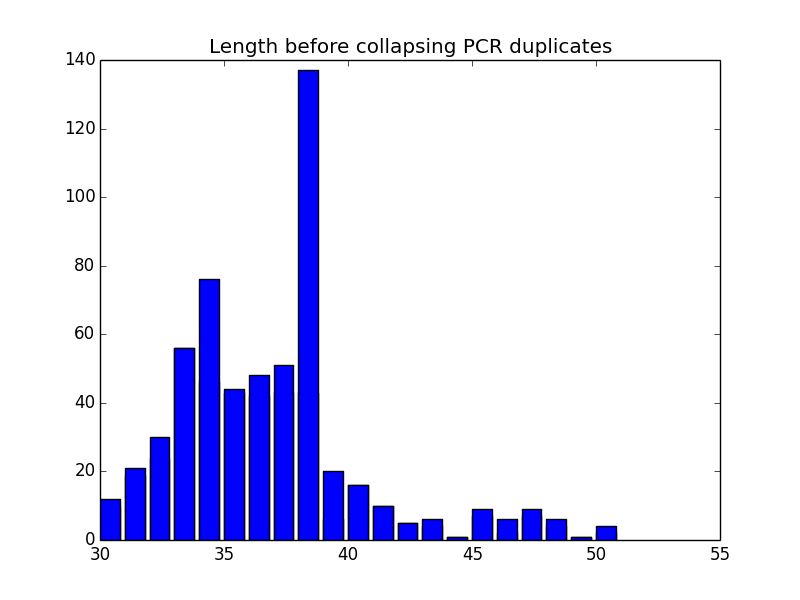
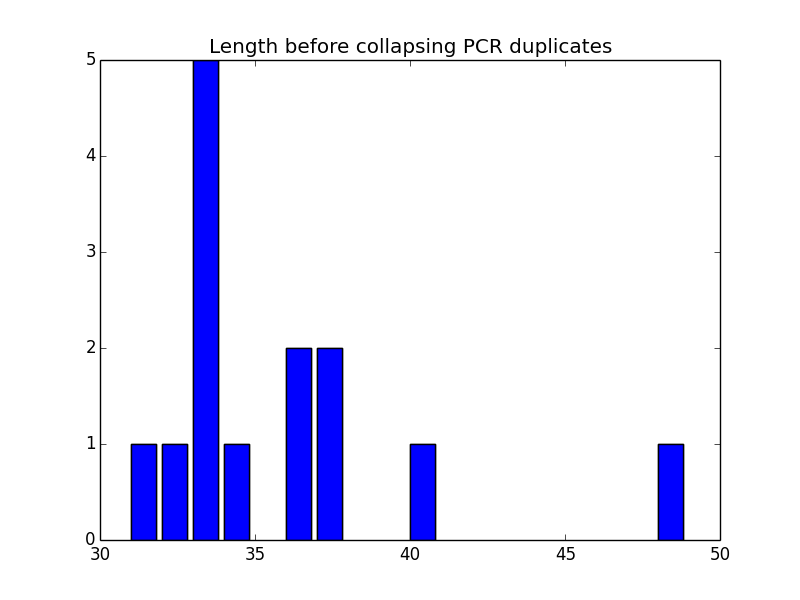
fix the count reporting the number of UNIQUE reads based on NH:1 tag from bam file

diff --git a/collapsePCRduplicates.py b/collapsePCRduplicates.py
@@ -27,7 +27,6 @@ ap.add_argument('outbam', help='Output file to save reads after collapsing PCR d
 ap.add_argument("--MAPQ",help="mapping quality to extract uniquely-mapped reads. Only reads with this MAPQ will be selected. By default all reads will be considered", default=60,type=int)
 ap.add_argument("--u",help="a binary flag used to indicate that only uniquely mapped reads will be considered. By default uniquely mapped reads are defined as reads with MAPQ=60",action="store_true")
 ap.add_argument("--chr",help="Number of autosomes. By default 20", default=20,type=int)
-ap.add_argument("--end",help="a binary flag used to indicate that end position is considered. This is beta version use with caution",action="store_true")
 ap.add_argument('--e', action='store_true',help='UMI-tools example format')
 
 
@@ -109,8 +108,11 @@ print ("Open ",bam, "via pysam")
 
 
 
+numberReadsUniqueGlobal=0 # across all chromosomes
 
 for chr in chr_list:
+
+    numberReadsUnique=0
     dict.clear()
     position[:]=[]
     if args.e:
@@ -120,9 +122,13 @@ for chr in chr_list:
     for read in samfile.fetch(chr):
         mappedReads.append(read.query_name)
 
+    if read.get_tag("NH") == 1:
+        print read.get_tag("NH"), read
+        numberReadsUnique += 1
+        numberReadsUniqueGlobal+=1
+
         if args.u:
-            if read.mapq==args.MAPQ:
-                numberReadsUnique += 1
+            if read.get_tag("NH")==1:
                 position.append(read.reference_start)
                 readLength.append(len(read.query_sequence))
         else:
@@ -176,23 +182,15 @@ for chr in chr_list:
             for read in samfile.fetch(chr,key,key+1):
                 if read.reference_start==key:
                     Read.append(read)
-                    if args.end:
-                        #UMI-tools format
-                        if args.e:
-                            setReads.add(read.query_name.split("_")[1] + "_" + str(read.query_sequence))
-                        #default format
-                        else:
-                            setReads.add(read.query_name.split("_")[3] + "_" + read.query_sequence)
+
+                    #UMI-tools format
+                    if args.e:
+                        setReads.add(read.query_name.split("_")[1]+"_"+str(read.cigarstring))
+                    #default format
                     else:
-                        #UMI-tools format
-                        if args.e:
-                            setReads.add(read.query_name.split("_")[1]+"_"+str(read.query_sequence))
-                        #default format
-                        else:
-                            setReads.add(read.query_name.split("_")[3]+"_"+read.query_sequence+"_"+str(read.reference_end))
+                        setReads.add(read.query_name.split("_")[3]+"_"+read.cigarstring+"_"+str(read.reference_end))
 
 
-                    #print (read.query_sequence,read.query_name,read.query_name.split("_")[3],read.reference_start,read.reference_end)
 
             
 
@@ -200,20 +198,16 @@ for chr in chr_list:
             notsetReads.clear()
             numberReadsUnique_covGreated1+=len(setReads)
             for i in range(0,val):
-                if args.end:
-                    #UMI-tools format
-                    if args.e:
-                        extended_read_name = Read[i].query_name.split("_")[1] + "_" + str(Read[i].query_sequence)+"_"+str(Read[i].reference_end)
+
+                #UMI-tools format
+                if args.e:
+                    extended_read_name=Read[i].query_name.split("_")[1]+"_"+Read[i].cigarstring
                     #default format
-                    else:
-                        extended_read_name = Read[i].query_name.split("_")[3] + "_" + Read[i].query_sequence+"_"+str(Read[i].reference_end)
                 else:
-                    #UMI-tools format
-                    if args.e:
-                        extended_read_name=Read[i].query_name.split("_")[1]+"_"+Read[i].query_sequence
-                    #default format
-                    else:
-                        extended_read_name=Read[i].query_name.split("_")[3]+"_"+Read[i].query_sequence
+                    extended_read_name=Read[i].query_name.split("_")[3]+"_"+Read[i].cigarstring
+
+
+
 
                 if extended_read_name in setReads and extended_read_name not in notsetReads:
                         outfile.write(Read[i])
@@ -221,20 +215,15 @@ for chr in chr_list:
                         readLength_filtered.append(len(str(Read[i].query_sequence)))
 
 
-                        if args.end:
-                            #UMI-tools format
-                            if args.e:
-                                notsetReads.add(Read[i].query_name.split("_")[1] + "_" + Read[i].query_sequence+"_"+str(Read[i].reference_end))
-                            #default format
-                            else:
-                                notsetReads.add(Read[i].query_name.split("_")[3] + "_" + Read[i].query_sequence+"_"+str(Read[i].reference_end))
+
+                        #UMI-tools format
+                        if args.e:
+                            notsetReads.add(Read[i].query_name.split("_")[1]+"_"+Read[i].cigarstring)
+                        #default format
                         else:
-                            #UMI-tools format
-                            if args.e:
-                                notsetReads.add(Read[i].query_name.split("_")[1]+"_"+Read[i].query_sequence)
-                            #default format
-                            else:
-                                notsetReads.add(Read[i].query_name.split("_")[3]+"_"+Read[i].query_sequence)
+                            notsetReads.add(Read[i].query_name.split("_")[3]+"_"+Read[i].cigarstring)
+
+
 
                         readSet.add(Read[i].query_name)
 
@@ -262,7 +251,7 @@ nr=[]
 
 nr.append(out.split('.')[0])
 nr.append(len(set(mappedReads)))
-nr.append(numberReadsUnique)
+nr.append(numberReadsUniqueGlobal)
 nr.append(len(readSet))
 
 
